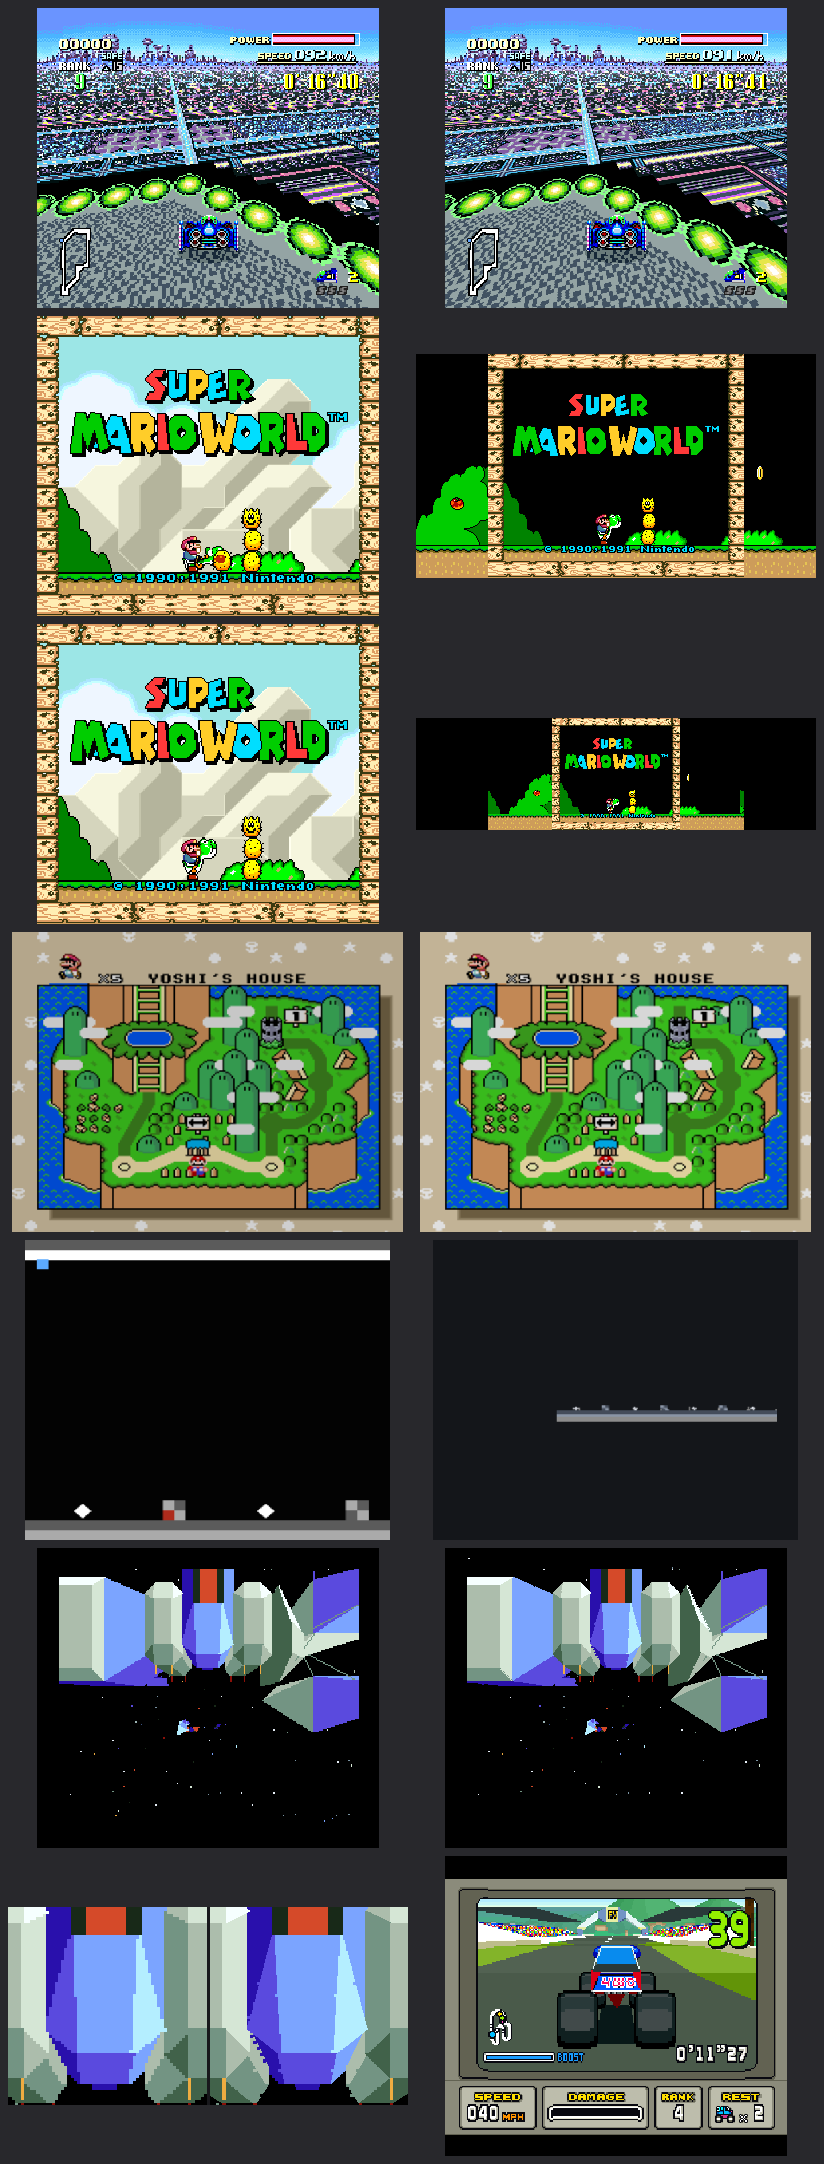
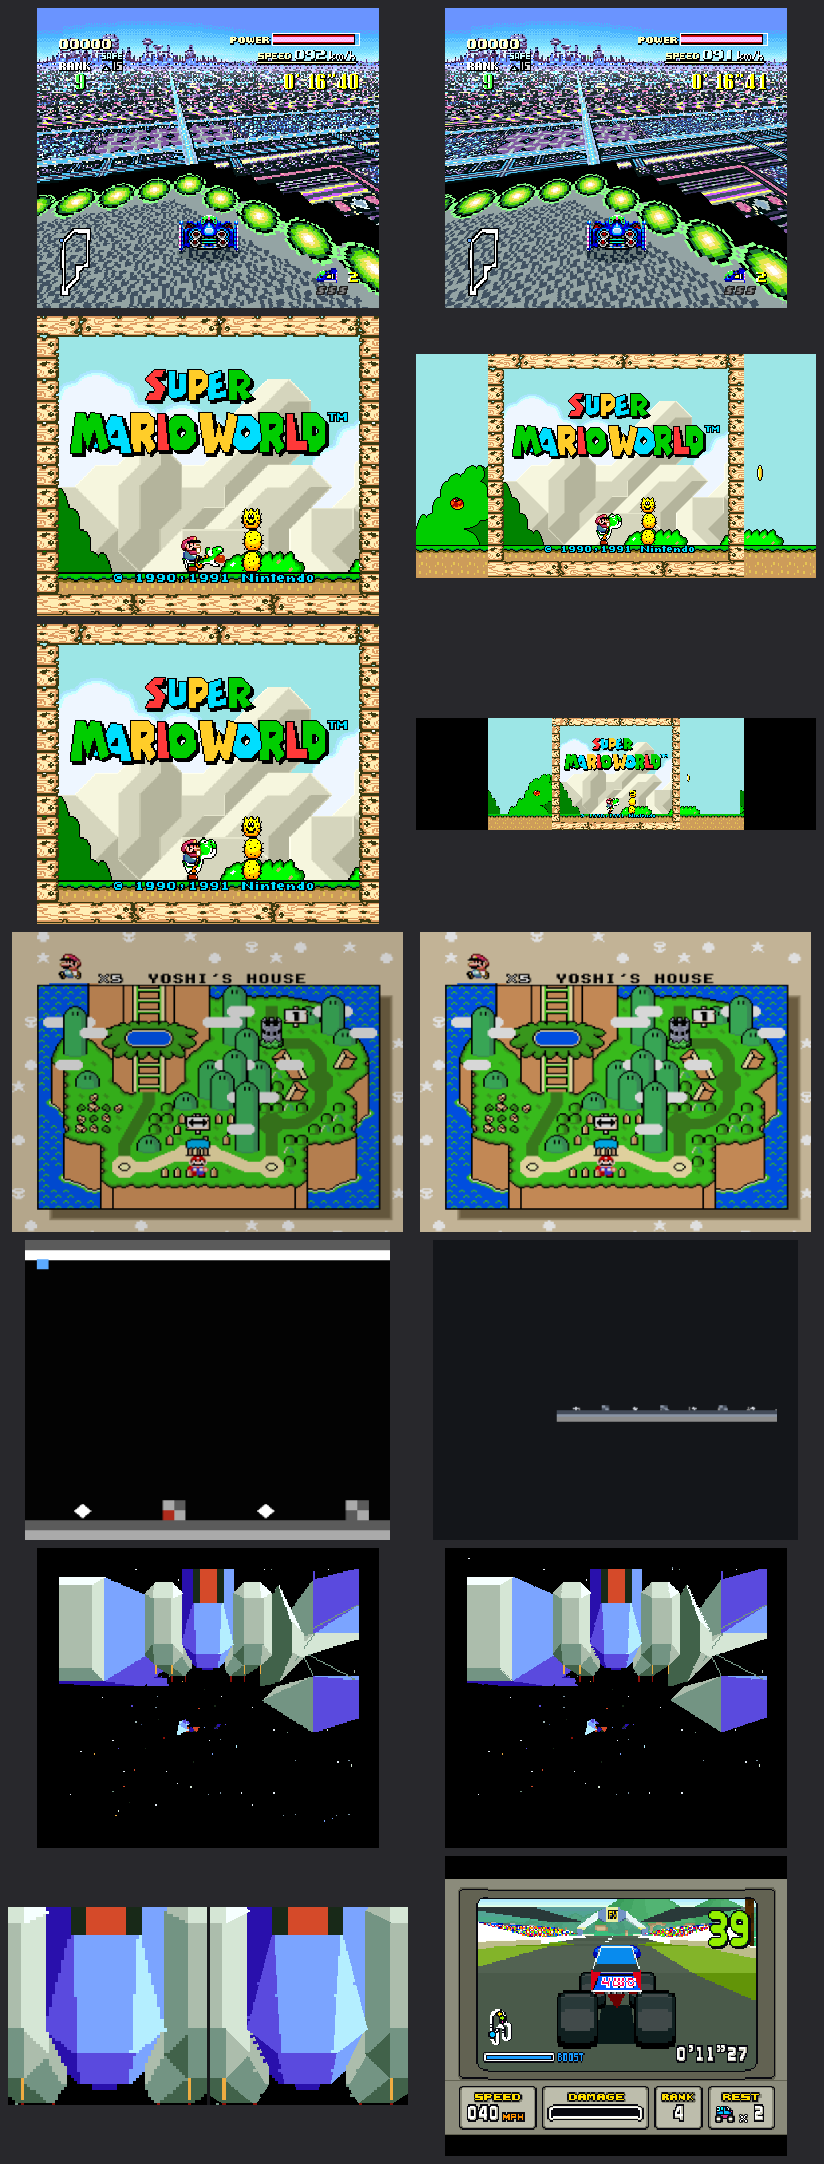
fix(rf-snes): widescreen lines keep their colour math
The sub-screen that colour math blends with was sent only for 256-dot
lines (core.rs: line.pixels.len() == WIDTH), meant to exclude hires
lines but excluding widescreen lines too. Every widened line silently
lost colour math: Super Mario World's sky gradient and hills vanished,
even inside the 4:3 area. Ppu::render_sub_scanline_width composes the
sub-screen at the line's width with the same widen mask (colour window
tested at the nearest on-screen column), and Ppu::line_hires tells a
hires line from a 512-wide widescreen line. At 256 dots the output is
identical (regression test). Screenshots re-shot: widescreen-*.png and
widescreen-16x9-fixed.png.

workspace: 2824 passing

Changed region(s): [[0.4854, 0.1548, 1.0, 0.2787], [0.5765, 0.3096, 0.9102, 0.4025]]

diff --git a/crates/rf-snes/src/ppu/mod.rs b/crates/rf-snes/src/ppu/mod.rs
@@ -845,6 +845,22 @@ impl Ppu {
         (math.enable != 0 && math.prevent_mode != 3) || math.clip_mode != 0
     }
 
+    /// Whether visible row `y` composes as a true/pseudo-hires line (its
+    /// latched BG mode; SETINI's pseudo-hires bit as currently set). Ticket
+    /// W30-03 follow-up: a widescreen line and a hires line can both be 512
+    /// dots long, so the length alone cannot tell them apart.
+    #[must_use]
+    pub fn line_hires(&self, y: u16) -> bool {
+        let idx = usize::from(y + 1);
+        let state = if self.line_uses_completed(idx) {
+            self.completed_line_state[idx]
+        } else {
+            self.line_state.get(idx).copied().flatten()
+        };
+        let mode = state.map_or(self.bg_mode, |s| s.bg_mode);
+        self.setini.hires_requested(mode)
+    }
+
     /// Line `y`'s palette and effective brightness (ticket W7-20), for
     /// [`rf_core_api::CoreSink::palette_scanline`]. `y` is the 0-based
     /// visible row, as [`Ppu::render_scanline`] takes it; the hardware
@@ -1167,7 +1183,29 @@ impl Ppu {
     /// the core says whether and which.
     #[must_use]
     pub fn render_sub_scanline(&mut self, y: u16) -> (Vec<rf_core_api::SubPixel>, u16) {
+        self.render_sub_scanline_width(y, WIDTH, self.widen_mask)
+    }
+
+    /// [`Self::render_sub_scanline`] for a WIDESCREEN line (ticket W30-03
+    /// follow-up): main and sub screen are composed `width` dots wide with
+    /// the same per-layer widen `mask` as the main line, so colour math
+    /// keeps working across the whole widened line. Before this, the
+    /// sub-screen was only sent for 256-dot lines, and every widescreen line
+    /// silently lost colour math -- Super Mario World's sky gradient and
+    /// hills vanished, centre included. The colour window is a 256-space
+    /// test; margin dots use the nearest on-screen column's window state.
+    /// At `width == WIDTH` this is exactly the 256-dot path.
+    pub fn render_sub_scanline_width(
+        &mut self,
+        y: u16,
+        width: usize,
+        mask: WidenMask,
+    ) -> (Vec<rf_core_api::SubPixel>, u16) {
         use rf_core_api::{ColorMathOp, SubPixel};
+        let width = width.clamp(WIDTH, MAX_WIDTH);
+        let pad = (width - WIDTH) / 2;
+        let saved_mask = self.widen_mask;
+        self.widen_mask = mask;
 
         let line = y + 1;
         let saved = LineScratch::capture(self);
@@ -1187,7 +1225,7 @@ impl Ppu {
         // The layer AND index: OBJ palettes 0-3 never take math (W7-21),
         // and only the index says which palette a sprite pixel used.
         let main_pixels: Vec<(rf_core_api::PixelLayer, u8)> = self
-            .render_scanline_live(line, main_phase, WIDTH)
+            .render_scanline_live(line, main_phase, width)
             .pixels
             .iter()
             .map(|p| (p.layer, p.palette_index))
@@ -1207,7 +1245,7 @@ impl Ppu {
         let phase = self.hires_phase(bg::HiresPhase::Even);
         // The sub screen feeds colour math, which is a 256-space
         // per-dot operation; widening is a main-screen concern.
-        let composed = self.render_scanline_live(line, phase, WIDTH);
+        let composed = self.render_scanline_live(line, phase, width);
 
         let math = self.color_math;
         let windows = self.windows;
@@ -1217,13 +1255,14 @@ impl Ppu {
         // toward the limit flags. None of that is the live PPU's: put
         // it all back before anything else reads a register.
         saved.restore(self);
+        self.widen_mask = saved_mask;
 
         let pixels = composed
             .pixels
             .iter()
             .enumerate()
             .map(|(x, px)| {
-                let inside = windows.masks(5, x as u8);
+                let inside = windows.masks(5, x.saturating_sub(pad).min(WIDTH - 1) as u8);
                 let (main_layer, main_index) = match main_pixels.get(x) {
                     Some((rf_core_api::PixelLayer::Background(n), i)) => (usize::from(*n), *i),
                     Some((rf_core_api::PixelLayer::Sprite, i)) => (4, *i),

diff --git a/crates/rf-snes/src/tests/ppu.rs b/crates/rf-snes/src/tests/ppu.rs
@@ -1783,3 +1783,49 @@ fn obj_palettes_0_to_3_never_take_colour_math() {
     );
     assert_eq!(sprite_op(0x30 | (4 << 1)), ColorMathOp::Add, "palette 4");
 }
+
+/// Ticket W30-03 follow-up (the widescreen colour-math bug): a widescreen
+/// line must carry its sub-screen at the same width, with the same colour
+/// math, or every widened line silently loses colour math (Super Mario
+/// World's sky gradient and hills vanished, even inside the 4:3 area). At
+/// 256 dots the width-aware path must equal the original one exactly.
+#[test]
+fn widescreen_lines_keep_colour_math_at_their_own_width() {
+    use crate::ppu::{WidenMask, WIDTH};
+    use rf_core_api::ColorMathOp;
+
+    let mut p = ppu_with_tile();
+    for i in 0..32 {
+        set_tilemap(&mut p, 0, i, 1);
+    }
+    p.write_register(0x212C, 0x01); // TM: BG1 on the main screen
+    p.write_register(0x212D, 0x02); // TS: BG2 on the sub screen
+    p.bgs[1].enabled = true;
+    p.write_register(0x2131, 0x01); // CGADSUB: math on BG1, add
+    p.write_register(0x2132, 0x3F);
+
+    let narrow = p.render_sub_scanline(0);
+    let same = p.render_sub_scanline_width(0, WIDTH, WidenMask::ALL);
+    assert_eq!(narrow.1, same.1);
+    assert_eq!(
+        narrow
+            .0
+            .iter()
+            .map(|s| (s.op, s.palette_index, s.fixed))
+            .collect::<Vec<_>>(),
+        same.0
+            .iter()
+            .map(|s| (s.op, s.palette_index, s.fixed))
+            .collect::<Vec<_>>(),
+        "at 256 dots the width-aware sub-screen is the original one"
+    );
+
+    let (wide, _) = p.render_sub_scanline_width(0, 400, WidenMask::ALL);
+    assert_eq!(wide.len(), 400, "the sub-screen is as wide as the line");
+    assert!(
+        wide[..72].iter().any(|s| s.op == ColorMathOp::Add)
+            && wide[328..].iter().any(|s| s.op == ColorMathOp::Add),
+        "colour math reaches the widened margins"
+    );
+    assert!(!p.line_hires(0), "a widescreen line is not a hires line");
+}

diff --git a/crates/rf-snes/src/core.rs b/crates/rf-snes/src/core.rs
@@ -430,10 +430,21 @@ impl SnesCore {
             // into, on lines whose colour math can act. A true-hires line
             // already carries its sub-screen as half-dots of `line`, and
             // math on hires is not modelled.
-            if line.pixels.len() == crate::ppu::WIDTH
+            // Ticket W30-03 follow-up: a widescreen line carries its
+            // sub-screen at the same width (it is not hires, even when it
+            // is 512 dots long), or colour math silently drops on it.
+            let wide_line = width > crate::ppu::WIDTH && !self.system.bus.ppu.line_hires(y);
+            if (line.pixels.len() == crate::ppu::WIDTH || wide_line)
                 && self.system.bus.ppu.line_color_math_active(y)
             {
-                let (sub, fixed_color) = self.system.bus.ppu.render_sub_scanline(y);
+                let (sub, fixed_color) = if wide_line {
+                    self.system
+                        .bus
+                        .ppu
+                        .render_sub_scanline_width(y, width, mask)
+                } else {
+                    self.system.bus.ppu.render_sub_scanline(y)
+                };
                 sink.sub_scanline(y, &sub, fixed_color);
             }
             sink.video_scanline(y, &line.pixels);

diff --git a/docs/screens/w30-w31/README.md b/docs/screens/w30-w31/README.md
@@ -11,7 +11,8 @@ here beyond these rendered frames.
 | File | Game | What it shows |
 |---|---|---|
 | `hdmode7-4x-off.png` / `-on.png` | F-Zero (USA) | Native 256x224, nearest-upscaled to 1024x896, vs HD Mode 7 at 4x with supersampling. In the "off" image every 4x4 block is one colour; in "on" 59% of the ground blocks carry sub-pixel detail. Near the car the track texture's own texels are big, which is correct magnification. |
-| `widescreen-16x9-*.png`, `widescreen-32x9-*.png` | Super Mario World (USA), title-screen demo | 4:3 vs 16:9 (400 wide) and 32:9 (800 wide). Margin source was **VRAM**, not the stitched canvas (the demo does not scroll far enough), so past 512 dots it is black. **Bug found:** with widescreen on, the background layer (sky and hills) disappears, even inside the original 4:3 area. |
+| `widescreen-16x9-*.png`, `widescreen-32x9-*.png` | Super Mario World (USA), title-screen demo | 4:3 vs 16:9 (400 wide) and 32:9 (800 wide). Margin source was **VRAM**, not the stitched canvas (the demo does not scroll far enough), so past 512 dots it is black. The first capture showed a bug: with widescreen on, the sky and hills vanished even inside the 4:3 area, because widened lines lost colour math (the sub-screen was only sent for 256-dot lines). It is fixed, and these files are re-shot with the fix. |
+| `widescreen-16x9-fixed.png` | Super Mario World (USA) | The 16:9 frame after the colour-math fix: sky gradient and hills in the centre and into the margins. |
 | `lens-off.png` / `-on.png` | Super Mario World (USA), overworld map | Lens and lighting: bloom, tilt-shift, soft shadows, grading at time 0.2, no weather. Subtle at these strengths: 99% of pixels change, by a mean of about 9 levels in 255. |
 | `hd2d-look-off.png` / `-on.png` | RF-Scroller (in-repo NES test game) | "HD-2D look" preset in Game-Aware mode. **Substitute:** no A Link to the Past heights are painted yet, and NES Zelda decodes its level only in play (past name registration). The fixture's level is a flat floor, so the 3D view is a thin strip; the follow camera also looks off-centre (worth a look). |
 | `superfx-hd-3x-off.png` / `-on.png` | Star Fox (USA), intro | Native (nearest 3x) vs Sharper Super FX 3D at 3x. |

diff --git a/docs/STATUS.md b/docs/STATUS.md
@@ -4555,3 +4555,9 @@ stories, 10 decisions).
   painter's "needs a running game" test moved to its own binary (it raced
   `RETROFORGE_CONFIG_DIR`). Report: docs/research/W31-04-superfx-hd-proof.md.
   Gate: workspace **2823 passing**.
+- **Fix: widescreen lines keep colour math** (2026-10-16). The SNES core
+  sent the colour-math sub-screen only for 256-dot lines, so every widened
+  line lost colour math (Super Mario World's sky and hills vanished, centre
+  included). The sub-screen is now composed at the line's width with the same
+  widen mask; hires lines are detected separately (both can be 512 wide).
+  256-dot output unchanged. Gate: workspace **2824 passing**.
